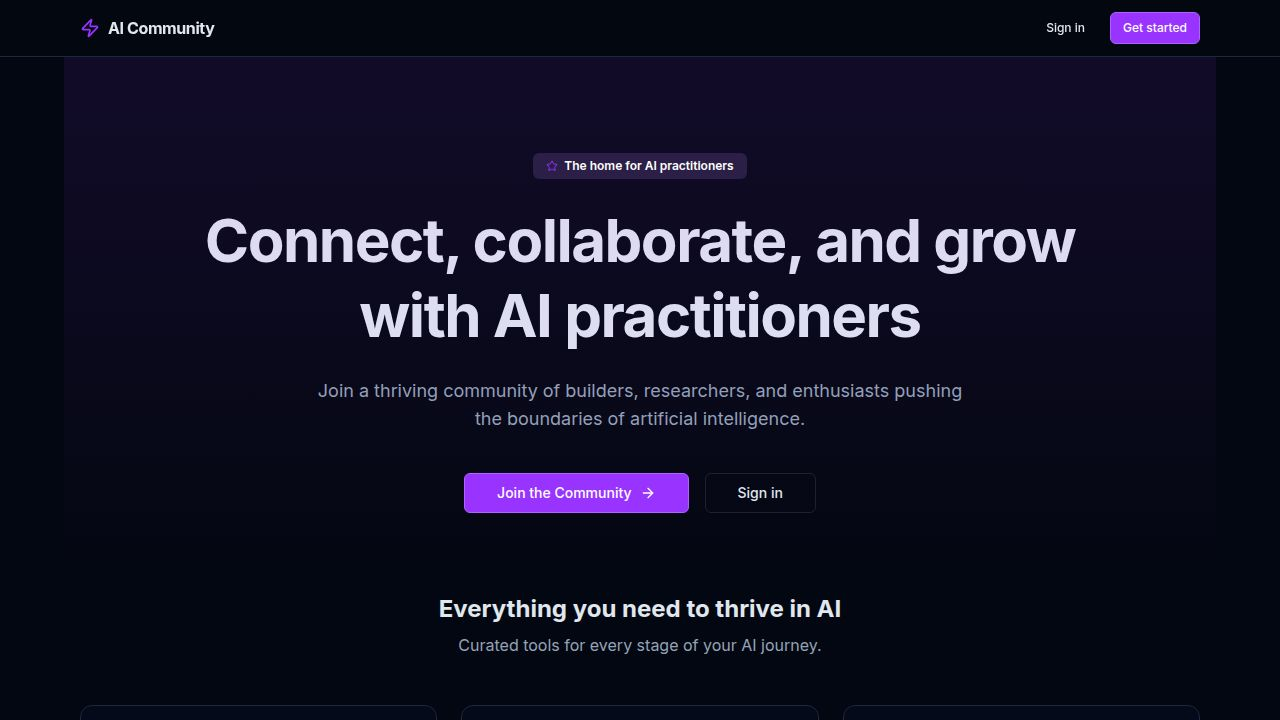
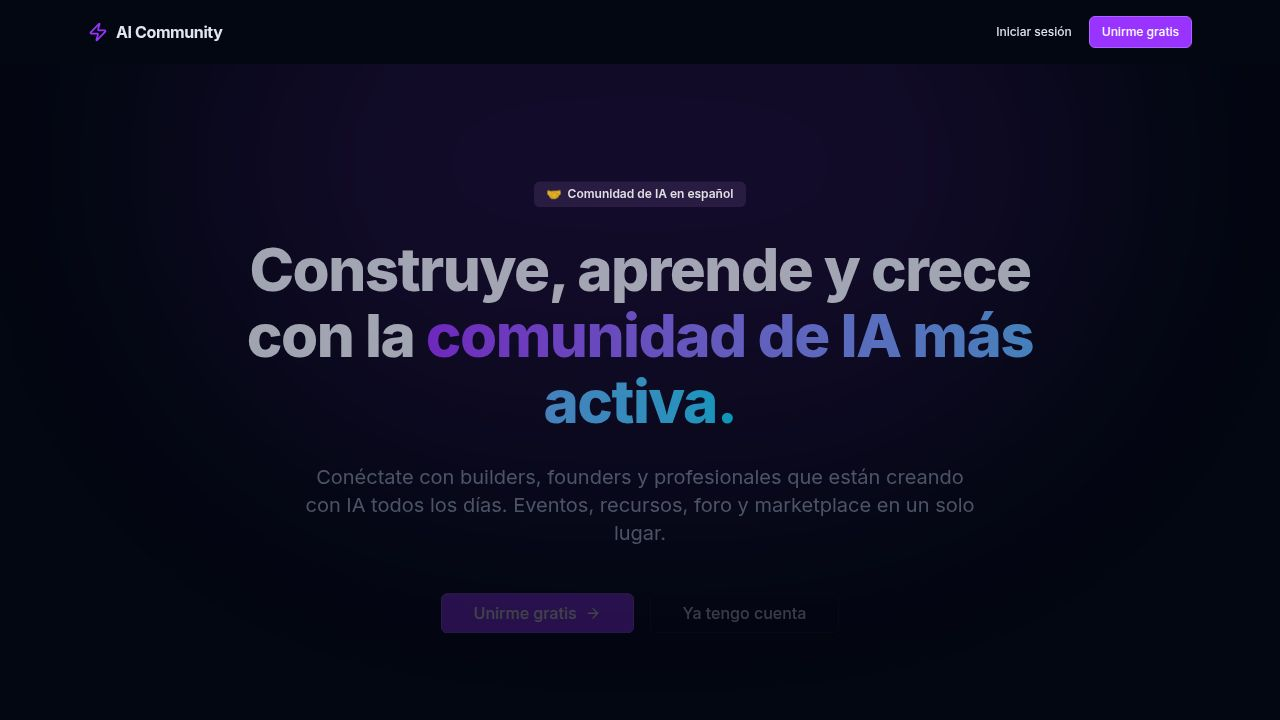
Add Spanish authentication routes and protect application pages
Integrates Clerk authentication with Spanish localization, introduces an AuthLayout and ProtectedRoute component, and updates landing page CTAs to point to new authentication routes.

Replit-Commit-Author: Agent
Replit-Commit-Session-Id: 21758936-24d3-4d87-b488-844f7e886458
Replit-Commit-Checkpoint-Type: full_checkpoint
Replit-Commit-Event-Id: 6975e829-5abc-4b49-9eb9-c358637bde4e
Replit-Commit-Screenshot-Url: https://storage.googleapis.com/screenshot-production-us-central1/7bc3dd0c-1e8b-4e69-b62e-6fc97e70c77e/21758936-24d3-4d87-b488-844f7e886458/p02GzsV
Replit-Helium-Checkpoint-Created: true

diff --git a/artifacts/web/src/App.tsx b/artifacts/web/src/App.tsx
@@ -1,11 +1,14 @@
 import { useEffect, useRef } from "react";
 import { ClerkProvider, SignIn, SignUp, Show, useClerk } from "@clerk/react";
 import { publishableKeyFromHost } from "@clerk/react/internal";
+import { esES } from "@clerk/localizations";
 import { shadcn } from "@clerk/themes";
 import { Switch, Route, useLocation, Router as WouterRouter, Redirect } from "wouter";
 import { QueryClientProvider, useQueryClient } from "@tanstack/react-query";
 import { Toaster } from "@/components/ui/toaster";
 import { TooltipProvider } from "@/components/ui/tooltip";
+import { AuthLayout } from "@/components/auth-layout";
+import { ProtectedRoute } from "@/components/protected-route";
 import { queryClient } from "@/lib/queryClient";
 import NotFound from "@/pages/not-found";
 import LandingPage from "@/pages/landing";
@@ -45,9 +48,6 @@ const clerkAppearance = {
   theme: shadcn,
   cssLayerName: "clerk",
   options: {
-    logoPlacement: "inside" as const,
-    logoLinkUrl: basePath || "/",
-    logoImageUrl: `${window.location.origin}${basePath}/logo.svg`,
     socialButtonsVariant: "blockButton" as const,
   },
   variables: {
@@ -64,7 +64,8 @@ const clerkAppearance = {
   },
   elements: {
     rootBox: "w-full flex justify-center",
-    cardBox: "bg-[hsl(224_71%_6%)] rounded-2xl w-[440px] max-w-full overflow-hidden border border-[hsl(216_34%_17%)]",
+    cardBox:
+      "bg-[hsl(224_71%_6%)] rounded-2xl w-[440px] max-w-full overflow-hidden border border-[hsl(216_34%_17%)]",
     card: "!shadow-none !border-0 !bg-transparent !rounded-none",
     footer: "!shadow-none !border-0 !bg-transparent !rounded-none",
     headerTitle: "text-[hsl(213_31%_91%)] font-semibold",
@@ -77,17 +78,17 @@ const clerkAppearance = {
     identityPreviewEditButton: "text-[hsl(270_100%_70%)]",
     formFieldSuccessText: "text-green-400",
     alertText: "text-[hsl(213_31%_91%)]",
-    logoBox: "mb-2",
-    logoImage: "h-8 w-auto",
-    socialButtonsBlockButton: "!border-[hsl(216_34%_17%)] hover:!border-[hsl(270_100%_60%)]",
-    formButtonPrimary: "!bg-[hsl(270_100%_60%)] hover:!bg-[hsl(270_100%_65%)]",
-    formFieldInput: "!bg-[hsl(216_34%_17%)] !border-[hsl(216_34%_25%)] !text-[hsl(213_31%_91%)]",
+    socialButtonsBlockButton:
+      "!border-[hsl(216_34%_17%)] hover:!border-[hsl(270_100%_60%)]",
+    formButtonPrimary:
+      "!bg-[hsl(270_100%_60%)] hover:!bg-[hsl(270_100%_65%)]",
+    formFieldInput:
+      "!bg-[hsl(216_34%_17%)] !border-[hsl(216_34%_25%)] !text-[hsl(213_31%_91%)]",
     footerAction: "!bg-transparent",
     dividerLine: "!bg-[hsl(216_34%_17%)]",
     alert: "!border-[hsl(216_34%_17%)]",
-    otpCodeFieldInput: "!bg-[hsl(216_34%_17%)] !border-[hsl(216_34%_25%)]",
-    formFieldRow: "",
-    main: "",
+    otpCodeFieldInput:
+      "!bg-[hsl(216_34%_17%)] !border-[hsl(216_34%_25%)]",
   },
 };
 
@@ -110,19 +111,76 @@ function ClerkQueryClientCacheInvalidator() {
   return null;
 }
 
+/** Redirect signed-in users away from auth pages */
+function GuestOnlyPage({ children }: { children: React.ReactNode }) {
+  return (
+    <>
+      <Show when="signed-in">
+        <Redirect to="/dashboard" />
+      </Show>
+      <Show when="signed-out">{children}</Show>
+    </>
+  );
+}
+
 function SignInPage() {
   return (
-    <div className="flex min-h-[100dvh] items-center justify-center bg-background px-4">
-      <SignIn routing="path" path={`${basePath}/sign-in`} signUpUrl={`${basePath}/sign-up`} />
-    </div>
+    <GuestOnlyPage>
+      <AuthLayout
+        switchText="¿No tienes cuenta?"
+        switchLinkText="Crear cuenta"
+        switchHref="/registro"
+      >
+        <SignIn
+          routing="path"
+          path={`${basePath}/iniciar-sesion`}
+          signUpUrl={`${basePath}/registro`}
+          forceRedirectUrl={`${basePath}/dashboard`}
+          fallbackRedirectUrl={`${basePath}/dashboard`}
+        />
+      </AuthLayout>
+    </GuestOnlyPage>
   );
 }
 
 function SignUpPage() {
   return (
-    <div className="flex min-h-[100dvh] items-center justify-center bg-background px-4">
-      <SignUp routing="path" path={`${basePath}/sign-up`} signInUrl={`${basePath}/sign-in`} />
-    </div>
+    <GuestOnlyPage>
+      <AuthLayout
+        switchText="¿Ya tienes cuenta?"
+        switchLinkText="Iniciar sesión"
+        switchHref="/iniciar-sesion"
+      >
+        <SignUp
+          routing="path"
+          path={`${basePath}/registro`}
+          signInUrl={`${basePath}/iniciar-sesion`}
+          forceRedirectUrl={`${basePath}/dashboard`}
+          fallbackRedirectUrl={`${basePath}/dashboard`}
+        />
+      </AuthLayout>
+    </GuestOnlyPage>
+  );
+}
+
+/** /recuperar — Clerk's "Forgot password?" flow lives inside <SignIn> */
+function RecuperarPage() {
+  return (
+    <GuestOnlyPage>
+      <AuthLayout
+        switchText="¿Recuerdas tu contraseña?"
+        switchLinkText="Iniciar sesión"
+        switchHref="/iniciar-sesion"
+      >
+        <SignIn
+          routing="path"
+          path={`${basePath}/recuperar`}
+          signUpUrl={`${basePath}/registro`}
+          forceRedirectUrl={`${basePath}/dashboard`}
+          fallbackRedirectUrl={`${basePath}/dashboard`}
+        />
+      </AuthLayout>
+    </GuestOnlyPage>
   );
 }
 
@@ -139,15 +197,6 @@ function HomeRedirect() {
   );
 }
 
-function AuthGuard({ children }: { children: React.ReactNode }) {
-  return (
-    <>
-      <Show when="signed-in">{children}</Show>
-      <Show when="signed-out"><Redirect to="/" /></Show>
-    </>
-  );
-}
-
 function ClerkProviderWithRoutes() {
   const [, setLocation] = useLocation();
 
@@ -156,12 +205,11 @@ function ClerkProviderWithRoutes() {
       publishableKey={clerkPubKey}
       proxyUrl={clerkProxyUrl}
       appearance={clerkAppearance}
-      signInUrl={`${basePath}/sign-in`}
-      signUpUrl={`${basePath}/sign-up`}
-      localization={{
-        signIn: { start: { title: "Welcome back", subtitle: "Sign in to your AI Community account" } },
-        signUp: { start: { title: "Join AI Community", subtitle: "Connect, collaborate, and grow" } },
-      }}
+      localization={esES}
+      signInUrl={`${basePath}/iniciar-sesion`}
+      signUpUrl={`${basePath}/registro`}
+      signInFallbackRedirectUrl={`${basePath}/dashboard`}
+      signUpFallbackRedirectUrl={`${basePath}/dashboard`}
       routerPush={(to) => setLocation(stripBase(to))}
       routerReplace={(to) => setLocation(stripBase(to), { replace: true })}
     >
@@ -170,47 +218,74 @@ function ClerkProviderWithRoutes() {
         <TooltipProvider>
           <Switch>
             <Route path="/" component={HomeRedirect} />
-            <Route path="/sign-in/*?" component={SignInPage} />
-            <Route path="/sign-up/*?" component={SignUpPage} />
+
+            {/* Spanish auth routes (canonical) */}
+            <Route path="/iniciar-sesion/*?" component={SignInPage} />
             <Route path="/registro/*?" component={SignUpPage} />
+            <Route path="/recuperar/*?" component={RecuperarPage} />
+
+            {/* Legacy English routes → redirect to Spanish equivalents */}
+            <Route path="/sign-in/*?">
+              <Redirect to="/iniciar-sesion" />
+            </Route>
+            <Route path="/sign-up/*?">
+              <Redirect to="/registro" />
+            </Route>
+
             <Route path="/dashboard">
-              <AuthGuard><DashboardPage /></AuthGuard>
+              <ProtectedRoute><DashboardPage /></ProtectedRoute>
             </Route>
             <Route path="/members">
-              <AuthGuard><MembersPage /></AuthGuard>
+              <ProtectedRoute><MembersPage /></ProtectedRoute>
             </Route>
             <Route path="/members/:userId">
-              {(params) => <AuthGuard><MemberProfilePage userId={params.userId} /></AuthGuard>}
+              {(params) => (
+                <ProtectedRoute>
+                  <MemberProfilePage userId={params.userId as string} />
+                </ProtectedRoute>
+              )}
             </Route>
             <Route path="/events">
-              <AuthGuard><EventsPage /></AuthGuard>
+              <ProtectedRoute><EventsPage /></ProtectedRoute>
             </Route>
             <Route path="/events/:eventId">
-              {(params) => <AuthGuard><EventDetailPage eventId={params.eventId} /></AuthGuard>}
+              {(params) => (
+                <ProtectedRoute>
+                  <EventDetailPage eventId={params.eventId as string} />
+                </ProtectedRoute>
+              )}
             </Route>
             <Route path="/forum">
-              <AuthGuard><ForumPage /></AuthGuard>
+              <ProtectedRoute><ForumPage /></ProtectedRoute>
             </Route>
             <Route path="/forum/:postId">
-              {(params) => <AuthGuard><ForumPostPage postId={params.postId} /></AuthGuard>}
+              {(params) => (
+                <ProtectedRoute>
+                  <ForumPostPage postId={params.postId as string} />
+                </ProtectedRoute>
+              )}
             </Route>
             <Route path="/resources">
-              <AuthGuard><ResourcesPage /></AuthGuard>
+              <ProtectedRoute><ResourcesPage /></ProtectedRoute>
             </Route>
             <Route path="/marketplace">
-              <AuthGuard><MarketplacePage /></AuthGuard>
+              <ProtectedRoute><MarketplacePage /></ProtectedRoute>
             </Route>
             <Route path="/marketplace/:listingId">
-              {(params) => <AuthGuard><MarketplaceListingPage listingId={params.listingId} /></AuthGuard>}
+              {(params) => (
+                <ProtectedRoute>
+                  <MarketplaceListingPage listingId={params.listingId as string} />
+                </ProtectedRoute>
+              )}
             </Route>
             <Route path="/messages">
-              <AuthGuard><MessagesPage /></AuthGuard>
+              <ProtectedRoute><MessagesPage /></ProtectedRoute>
             </Route>
             <Route path="/settings">
-              <AuthGuard><SettingsPage /></AuthGuard>
+              <ProtectedRoute><SettingsPage /></ProtectedRoute>
             </Route>
             <Route path="/admin">
-              <AuthGuard><AdminPage /></AuthGuard>
+              <ProtectedRoute><AdminPage /></ProtectedRoute>
             </Route>
             <Route component={NotFound} />
           </Switch>

diff --git a/artifacts/web/src/components/auth-layout.tsx b/artifacts/web/src/components/auth-layout.tsx
@@ -1,0 +1,53 @@
+import { Link } from "wouter";
+import { Zap } from "lucide-react";
+
+interface AuthLayoutProps {
+  children: React.ReactNode;
+  switchText: string;
+  switchLinkText: string;
+  switchHref: string;
+}
+
+export function AuthLayout({
+  children,
+  switchText,
+  switchLinkText,
+  switchHref,
+}: AuthLayoutProps) {
+  return (
+    <div className="relative flex min-h-[100dvh] flex-col items-center justify-center bg-background px-4 py-12 overflow-hidden">
+      {/* Ambient glows */}
+      <div aria-hidden="true" className="pointer-events-none absolute inset-0">
+        <div className="absolute -top-40 left-1/2 -translate-x-1/2 h-[600px] w-[800px] rounded-full bg-primary/8 blur-[100px]" />
+        <div className="absolute bottom-0 right-0 h-[300px] w-[500px] rounded-full bg-[hsl(190_100%_50%)]/5 blur-[80px]" />
+      </div>
+
+      <div className="relative w-full max-w-[440px]">
+        {/* Top bar: logo + switch link */}
+        <div className="mb-6 flex items-center justify-between">
+          <Link
+            href="/"
+            aria-label="AI Community — inicio"
+            className="flex items-center gap-2 focus-visible:outline-none focus-visible:ring-2 focus-visible:ring-primary rounded-sm"
+          >
+            <Zap className="h-5 w-5 text-primary" aria-hidden="true" />
+            <span className="font-bold text-foreground text-sm">AI Community</span>
+          </Link>
+
+          <p className="text-sm text-muted-foreground">
+            {switchText}{" "}
+            <Link
+              href={switchHref}
+              className="text-primary hover:text-primary/80 underline-offset-4 hover:underline font-medium transition-colors focus-visible:outline-none focus-visible:ring-2 focus-visible:ring-primary rounded-sm"
+            >
+              {switchLinkText}
+            </Link>
+          </p>
+        </div>
+
+        {/* Clerk card */}
+        {children}
+      </div>
+    </div>
+  );
+}

diff --git a/artifacts/web/src/components/protected-route.tsx b/artifacts/web/src/components/protected-route.tsx
@@ -1,0 +1,27 @@
+import { Show } from "@clerk/react";
+import { Redirect } from "wouter";
+
+interface ProtectedRouteProps {
+  children: React.ReactNode;
+}
+
+/**
+ * Gate a route behind Clerk authentication.
+ * – Signed in  → renders children as-is.
+ * – Signed out → redirects to /iniciar-sesion.
+ *
+ * Usage:
+ *   <Route path="/dashboard">
+ *     <ProtectedRoute><DashboardPage /></ProtectedRoute>
+ *   </Route>
+ */
+export function ProtectedRoute({ children }: ProtectedRouteProps) {
+  return (
+    <>
+      <Show when="signed-in">{children}</Show>
+      <Show when="signed-out">
+        <Redirect to="/iniciar-sesion" />
+      </Show>
+    </>
+  );
+}

diff --git a/artifacts/web/src/components/landing/landing-header.tsx b/artifacts/web/src/components/landing/landing-header.tsx
@@ -32,7 +32,7 @@ export function LandingHeader() {
 
         <nav aria-label="Main navigation" className="hidden sm:flex items-center gap-1">
           <Button variant="ghost" size="sm" asChild>
-            <Link href="/sign-in">Iniciar sesión</Link>
+            <Link href="/iniciar-sesion">Iniciar sesión</Link>
           </Button>
           <Button size="sm" asChild>
             <Link href="/registro">Unirme gratis</Link>
@@ -52,7 +52,7 @@ export function LandingHeader() {
       {menuOpen && (
         <div className="sm:hidden border-t border-border bg-background/95 backdrop-blur-md px-4 py-4 flex flex-col gap-2">
           <Button variant="ghost" className="w-full justify-start" asChild onClick={() => setMenuOpen(false)}>
-            <Link href="/sign-in">Iniciar sesión</Link>
+            <Link href="/iniciar-sesion">Iniciar sesión</Link>
           </Button>
           <Button className="w-full" asChild onClick={() => setMenuOpen(false)}>
             <Link href="/registro">Unirme gratis</Link>

diff --git a/artifacts/web/src/components/landing/hero-section.tsx b/artifacts/web/src/components/landing/hero-section.tsx
@@ -70,7 +70,7 @@ export function HeroSection() {
             </Link>
           </Button>
           <Button size="lg" variant="outline" className="text-base" asChild>
-            <Link href="/sign-in">Ya tengo cuenta</Link>
+            <Link href="/iniciar-sesion">Ya tengo cuenta</Link>
           </Button>
         </motion.div>
 